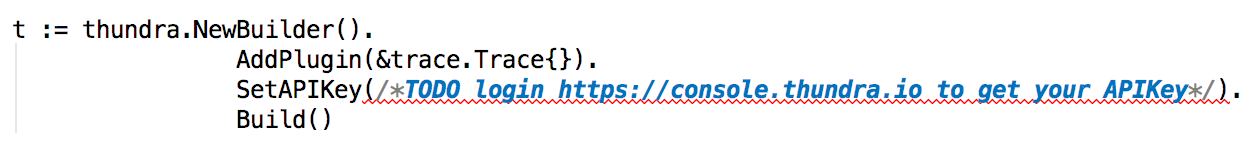
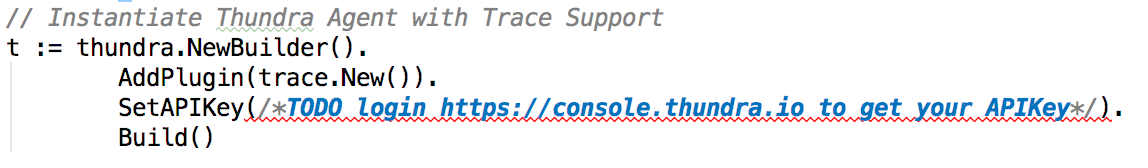
Updated readme according to new version of the agent

Changed region(s): [[0.0, 0.026, 1.0, 0.8831], [0.0915, 0.0, 0.122, 0.026]]

diff --git a/helloworld.go b/helloworld.go
@@ -27,7 +27,7 @@ func HandleLambdaEvent(event MyEvent) (MyResponse, error) {
 func main() {
 	// Instantiate Thundra Agent with Trace Support
 	t := thundra.NewBuilder().
-			AddPlugin(&trace.Trace{}).
+			AddPlugin(trace.New()).
 			SetAPIKey(/*TODO login https://console.thundra.io to get your APIKey*/).
 			Build()
 

diff --git a/README.md b/README.md
@@ -2,7 +2,7 @@
 
 This is a simple example to trace your lambda go functions with [Thundra](https://www.thundra.io/).
 
-If you haven't done already start by installing **serverless** by:
+If you haven't done already start installing **serverless framework** by:
 ```bash
 npm install serverless -g
 ```
